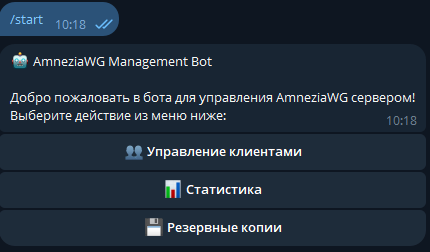
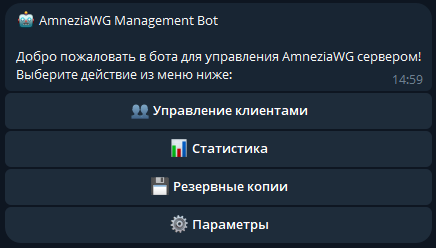
Update screens

diff --git a/keyboards/main_keyboards.py b/keyboards/main_keyboards.py
@@ -3,7 +3,6 @@ from aiogram.utils.keyboard import InlineKeyboardBuilder
 from typing import List, Optional
 from database.database import Client
 
-# Добавьте в get_main_menu():
 def get_main_menu() -> InlineKeyboardMarkup:
     """Главное меню бота"""
     builder = InlineKeyboardBuilder()
@@ -28,7 +27,6 @@ def get_main_menu() -> InlineKeyboardMarkup:
     builder.adjust(1)
     return builder.as_markup()
 
-# Добавьте новые клавиатуры для настроек:
 def get_settings_menu() -> InlineKeyboardMarkup:
     """Меню параметров"""
     builder = InlineKeyboardBuilder()

diff --git a/README.md b/README.md
@@ -15,6 +15,7 @@ Telegram бот для управления AmneziaWG VPN сервером с п
 - 🌍 **Геолокация IP** через API ip-api.com
 - 💾 **Резервные копии** с возможностью восстановления
 - 📱 **QR-коды** для быстрого подключения клиентов
+- 📱 **Ключ** в формате `vpn://` при получении конфигурации клиента, для использования в [AmneziaVPN](https://github.com/amnezia-vpn/amnezia-client)
 - 📈 **Статистика** сервера и отдельных клиентов
 
 ---
@@ -198,7 +199,7 @@ awg-quick up awg0
 1. **Добавление клиента:**
    - Выберите "Управление клиентами" → "Добавить клиента"
    - Введите имя клиента
-   - Укажите endpoint (внешний IP-адрес или домен, к которому будут подключаться клиенты)
+   - Укажите endpoint (если не указан в параметрах сервера)
    - Выберите срок действия
    - Установите лимит трафика
 
@@ -207,6 +208,7 @@ awg-quick up awg0
    - Блокировка/разблокировка
    - Получение конфигурации и QR-кода
    - Просмотр статистики
+   - Редактирование параметров
    - Удаление клиента
 
 ### Резервное копирование:
@@ -238,7 +240,8 @@ awg-quick up awg0
     ├── init.py        
     ├── awg_manager.py
     ├── ip_service.py 
-    ├── backup_service.py                 
+    ├── backup_service.py
+    ├── settings_service.py                 
 └── utils/                          # утилиты
     ├── init.py  
     ├── qr_generator.py
